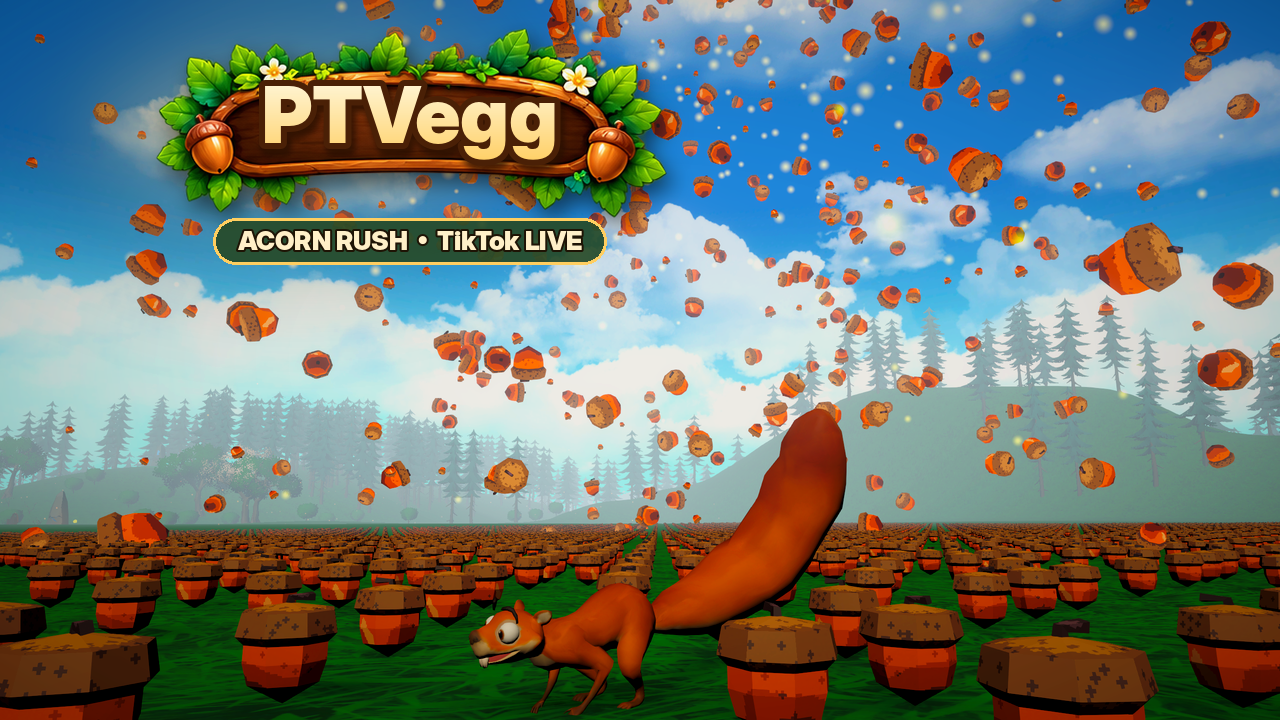
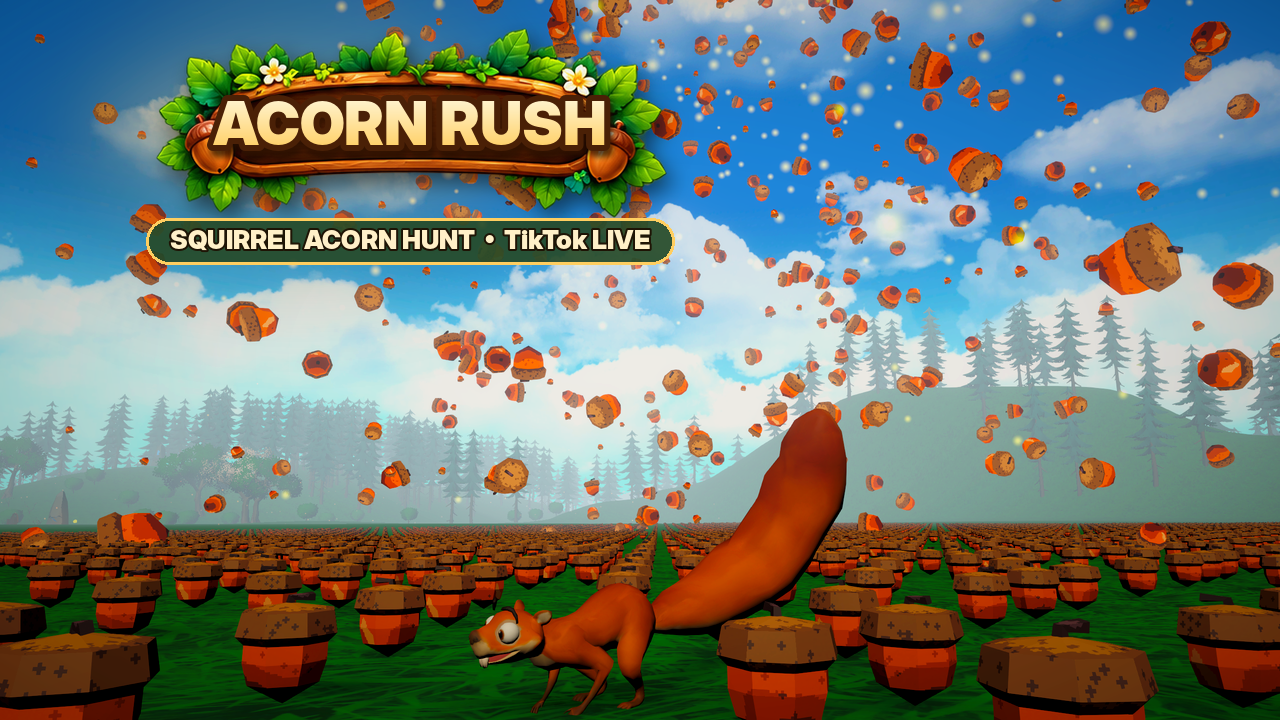
Use the in-game name Acorn Rush; add release manifest for ptvegg 1.0.0
- Catalog/README/ARTWORK/workflow: display name Acorn Rush (id stays ptvegg)
- Cover title now ACORN RUSH, same as the game's start screen
- release-manifests/ptvegg.json: AcornRush.v1.0.0.zip (132,376,404 bytes,
  SHA-256 f2707fa3...a30f), executable AcornRush/AcornRush.exe
- unity-update/PTVegg: build output AcornRush/AcornRush.exe, productName Acorn Rush

Claude-Session: https://claude.ai/code/session_01BNU51xnjJnApvayv2gbQ4x

Changed region(s): [[0.1562, 0.0917, 0.5, 0.2444], [0.0938, 0.3056, 0.5312, 0.3667]]

diff --git a/unity-update/PTVegg/PTVMandatoryBuild.cs b/unity-update/PTVegg/PTVMandatoryBuild.cs
@@ -17,7 +17,7 @@ public sealed class PTVMandatoryBuildValidator : IPreprocessBuildWithReport,IPro
 public static class PTVMandatoryBuild {
  static readonly string Root="C:/Users/Windows 11 Pro/PTVegg/Builds";
  public const string Version="1.0.0";
- static string Name{get{return "PTVegg";}}
+ static string Name{get{return "AcornRush";}}
  public static string Run(){Directory.CreateDirectory(Root);File.WriteAllText(Root+"/"+Name+"-build-status.txt","SCHEDULED");EditorApplication.delayCall+=Build;return "Build scheduled: "+Name;}
  static void Build(){try{
   File.WriteAllText(Root+"/"+Name+"-build-status.txt","BUILDING");EditorSceneManager.SaveOpenScenes();
@@ -25,10 +25,10 @@ public static class PTVMandatoryBuild {
   if(!File.Exists(path)){var bootstrap=EditorSceneManager.NewScene(NewSceneSetup.EmptyScene,NewSceneMode.Additive);EditorSceneManager.SaveScene(bootstrap,path);EditorSceneManager.CloseScene(bootstrap,true);}
   string[] entries=new[]{"Assets/Scenes/PTVegg_Map.unity"};
   var scenes=new[]{path}.Concat(entries).ToArray();EditorBuildSettings.scenes=scenes.Select(s=>new EditorBuildSettingsScene(s,true)).ToArray();
-  PlayerSettings.bundleVersion=Version;PlayerSettings.productName="PTVegg";PlayerSettings.runInBackground=true;PlayerSettings.resizableWindow=true;PlayerSettings.fullScreenMode=FullScreenMode.Windowed;PlayerSettings.defaultScreenWidth=1280;PlayerSettings.defaultScreenHeight=720;
+  PlayerSettings.bundleVersion=Version;PlayerSettings.productName="Acorn Rush";PlayerSettings.runInBackground=true;PlayerSettings.resizableWindow=true;PlayerSettings.fullScreenMode=FullScreenMode.Windowed;PlayerSettings.defaultScreenWidth=1280;PlayerSettings.defaultScreenHeight=720;
   PlayerSettings.SetScriptingBackend(UnityEditor.Build.NamedBuildTarget.Standalone,ScriptingImplementation.Mono2x);
 
-  AssetDatabase.SaveAssets();string folder=Root+"/"+Name+"-"+Version+"/"+Name;Directory.CreateDirectory(folder);   // ZIP the version folder -> PTVegg/PTVegg.exe
+  AssetDatabase.SaveAssets();string folder=Root+"/"+Name+"-"+Version+"/"+Name;Directory.CreateDirectory(folder);   // ZIP the version folder -> AcornRush/AcornRush.exe
   var report=BuildPipeline.BuildPlayer(new BuildPlayerOptions{scenes=scenes,locationPathName=folder+"/"+Name+".exe",target=BuildTarget.StandaloneWindows64,options=BuildOptions.CompressWithLz4HC});
   File.WriteAllText(Root+"/"+Name+"-build-status.txt",report.summary.result+"\nErrors="+report.summary.totalErrors+"\nBytes="+report.summary.totalSize+"\nDuration="+report.summary.totalTime);
  }catch(Exception e){File.WriteAllText(Root+"/"+Name+"-build-status.txt","FAILED\n"+e);Debug.LogException(e);}}

diff --git a/Launcher.cs b/Launcher.cs
@@ -228,7 +228,7 @@ namespace PTVgame {
     Assert(runner.universeId=="10771728798","PTVRunner uses the actual Roblox cover");
     Assert(runner.newBadge=="assets/new-gold.png"&&File.Exists(Path.Combine(AppDomain.CurrentDomain.BaseDirectory,runner.newBadge)),"Gold NEW artwork packaged");
     var egg=catalog.Single(g=>g.id=="ptvegg");Updater.Https(egg.manifestUrl);
-    Assert(egg.category=="Unity"&&egg.manifestUrl.EndsWith("/ptvegg.json")&&File.Exists(Path.Combine(AppDomain.CurrentDomain.BaseDirectory,egg.cover)),"PTVegg listed with its packaged cover");
+    Assert(egg.category=="Unity"&&egg.manifestUrl.EndsWith("/ptvegg.json")&&File.Exists(Path.Combine(AppDomain.CurrentDomain.BaseDirectory,egg.cover)),"Acorn Rush listed with its packaged cover");
     string zip=Path.Combine(root,"bad.zip"); using(var a=ZipFile.Open(zip,ZipArchiveMode.Create)) { using(var w=new StreamWriter(a.CreateEntry("../escape.txt").Open())) w.Write("bad"); }
     bool rejected=false; try { Updater.Extract(zip,Path.Combine(root,"out"),CancellationToken.None); } catch { rejected=true; } Assert(rejected,"zip traversal");
     string good=Path.Combine(root,"good.zip"); using(var a=ZipFile.Open(good,ZipArchiveMode.Create)) { using(var w=new StreamWriter(a.CreateEntry("Game/Data.txt").Open())) w.Write("ok"); }

diff --git a/unity-update/PTVegg/PTVVersionGate.cs b/unity-update/PTVegg/PTVVersionGate.cs
@@ -10,7 +10,7 @@ using UnityEngine.InputSystem.UI;
 // This is a client-side update gate, not anti-tamper or server authentication.
 [DefaultExecutionOrder(-32000)]
 public sealed class PTVVersionGate : MonoBehaviour {
- public const string GameName="PTVegg";
+ public const string GameName="Acorn Rush";
  public const string ManifestUrl="https://raw.githubusercontent.com/Poom99tv/PTVgame/main/release-manifests/ptvegg.json";
  public const string EntryScene="PTVegg_Map";
  public const string BootstrapScene="PTVVersionGate";

diff --git a/README.md b/README.md
@@ -1,14 +1,14 @@
 # PTVgame — Windows Launcher
 
-## PTVegg — Launcher 1.8.0
+## Acorn Rush — Launcher 1.8.0
 
-เกม Unity ลำดับที่ 5: **PTVegg (Acorn Rush)** จากโปรเจกต์ PTVegg กระรอกวิ่งเก็บลูกโอ๊กในทุ่ง มีระบบ XP/สกิล และเชื่อม TikTok LIVE ก่อนเล่น ของขวัญทำให้ลูกโอ๊กตกลงมาในทุ่ง ตั้งแต่ +500 จะมีคัตซีนฝนลูกโอ๊ก เลือกภาษาอังกฤษ/ไทยได้ในเกม (เริ่มต้นเป็นภาษาอังกฤษ)
+เกม Unity ลำดับที่ 5: **Acorn Rush** (ชื่อเดียวกับในเกม) จากโปรเจกต์ Unity PTVegg กระรอกวิ่งเก็บลูกโอ๊กในทุ่ง มีระบบ XP/สกิล และเชื่อม TikTok LIVE ก่อนเล่น ของขวัญทำให้ลูกโอ๊กตกลงมาในทุ่ง ตั้งแต่ +500 จะมีคัตซีนฝนลูกโอ๊ก เลือกภาษาอังกฤษ/ไทยได้ในเกม (เริ่มต้นเป็นภาษาอังกฤษ)
 
-![PTVegg](assets/ptvegg.png)
+![Acorn Rush](assets/ptvegg.png)
 
-ID `ptvegg`, manifest `release-manifests/ptvegg.json`, executable `PTVegg/PTVegg.exe`, เกมเวอร์ชัน 1.0.0 ใช้ silent mandatory update gate แบบเดียวกับเกม Unity อื่น ZIP มีโฟลเดอร์ `TikTokBridge` (Node runtime) ข้าง EXE สคริปต์ gate/build อยู่ใน `unity-update/PTVegg/` ภาพปกเรนเดอร์จากฉากจริงในเกม ดู ARTWORK.md
+ID `ptvegg`, manifest `release-manifests/ptvegg.json`, executable `AcornRush/AcornRush.exe`, เกมเวอร์ชัน 1.0.0 ใช้ silent mandatory update gate แบบเดียวกับเกม Unity อื่น ZIP มีโฟลเดอร์ `TikTokBridge` (Node runtime) ข้าง EXE สคริปต์ gate/build อยู่ใน `unity-update/PTVegg/` ภาพปกเรนเดอร์จากฉากจริงในเกม ดู ARTWORK.md
 
-ลำดับการปล่อย: อัปโหลด `PTVegg.v1.0.0.zip` ไปที่ Release `ptvegg-v1.0.0` ก่อน แล้วจึง push `release-manifests/ptvegg.json` และ catalog/ภาพปก (Launcher 1.8.0 สร้างผ่าน GitHub Actions เมื่อ push)
+ลำดับการปล่อย: อัปโหลด `AcornRush.v1.0.0.zip` ไปที่ Release `ptvegg-v1.0.0` ก่อน แล้วจึง push `release-manifests/ptvegg.json` และ catalog/ภาพปก (Launcher 1.8.0 สร้างผ่าน GitHub Actions เมื่อ push)
 
 Launcher 1.7.3 adds the selected gold NEW ribbon as a separate transparent PNG on the PTVRunner card. Its cover refreshes from the published Roblox experience thumbnail (universe 10771728798), with packaged artwork as an offline fallback. The ribbon does not modify the Roblox cover itself; favorites move to the card's upper right to keep the ribbon clear.
 

diff --git a/ARTWORK.md b/ARTWORK.md
@@ -24,6 +24,6 @@ Prompt: 16:9 stylized 3D promotional cover grounded in the actual map; blocky ru
 # Gold NEW ribbon (2026-10-23)
 
 `assets/new-gold.png` is a transparent PNG drawn with built-in imagegen, selected option 2. Prompt: standalone diagonal gold corner ribbon, exact bold black NEW, white/gold bevel and restrained glow, folded ends, transparent outside; no game scene. Original retained in workspace outputs/PTVRunner/NEW-designs/new-gold-original.png. Launcher renders this image separately at the top left of the PTVRunner card.
-# PTVegg cover (2026-10-28)
+# Acorn Rush cover (2026-10-28)
 
-`assets/ptvegg.png` (1280×720) is a real render from the PTVegg Unity project, not generated art: a low camera beside the squirrel player in the acorn meadow (PTVegg_Map) while the in-game gift cutscene rains acorns from the sky. Only colour grading, a vignette, the game's own wooden title plate (fr_title_header) with the PTVegg title and an "ACORN RUSH • TikTok LIVE" ribbon were added. The title sits inside the centre 70% so it survives the card crop.
+`assets/ptvegg.png` (1280×720) is a real render from the PTVegg Unity project, not generated art: a low camera beside the squirrel player in the acorn meadow (PTVegg_Map) while the in-game gift cutscene rains acorns from the sky. Only colour grading, a vignette, the game's own wooden title plate (fr_title_header) with the in-game title ACORN RUSH and a "SQUIRREL ACORN HUNT • TikTok LIVE" ribbon were added. The title sits inside the centre 70% so it survives the card crop.
